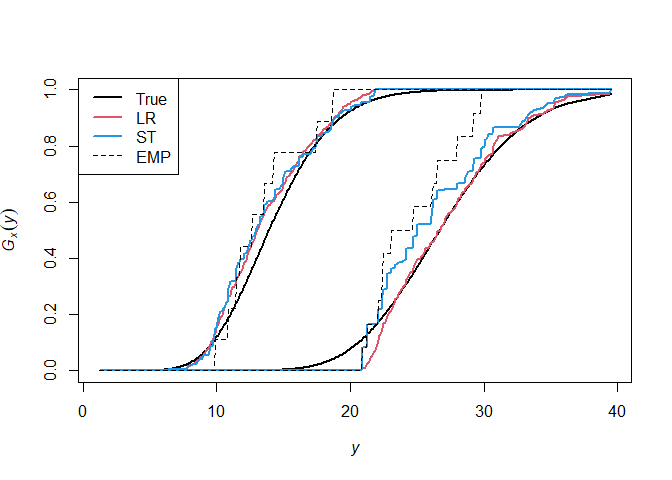
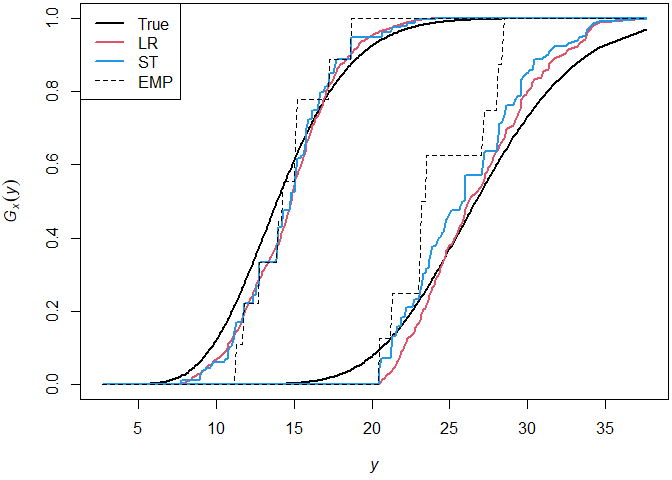
Updated plots

diff --git a/README.md b/README.md
@@ -69,7 +69,7 @@ $b: \mathfrak{X} \to (0,\infty)$.
 
 ``` r
 rm(list = ls())
-set.seed(1)
+set.seed(1234)
 a <- function(x) 2 + (x+1)^2
 b <- function(x) 1 - exp(-10*x)
 r.cond.dist <- function(x) rgamma(1, shape = a(x), scale = b(x))
@@ -110,6 +110,7 @@ We estimate the family of distributions using the function
 `dist_reg_R()` with default options.
 
 ``` r
+par(mar = c(4.2, 4.2, 0.2, 0.2))
 res <- dist_reg_R(data$X, data$Y)
 plotD(res$par, indices = FALSE)
 ```
@@ -185,7 +186,7 @@ y <- par$y
 
 beta.seq <- c(0.10, 0.25, 0.5, 0.75, 0.90); beta.n <- length(beta.seq)
 
-# Compute lower and upper quantile curves, and then a taut string
+# Compute lower and upper quantile curves, and then a taut string in between
 QLR <- matrix(0, nrow = l0, ncol = beta.n)
 for (s in seq_along(beta.seq)) {
   QL <- QU <- rep(0, l0)
@@ -199,14 +200,6 @@ for (s in seq_along(beta.seq)) {
     QLR[, s] <- taut.string(QL[, s], QU[, s], x)$Y
   }
 }
-
-plot(data[ii,], pch = 16, cex = 0.3, xaxt = "n", log = "y",
-     ylim = range(data$weight[ii]) * c(0.9, 1.1),
-     xlab = "Age [years]", ylab = "Weight [kg]")
-axis(1, at = 12 * 2:16, labels = 2:16)
-for (s in seq_along(beta.seq)) {
-  lines(x0, QLR[, s], lwd = 2.5)
-}
 ```
 
-<img src="man/figures/README-growth_data-1.png" width="80%" />
+<img src="man/figures/README-plot_growth_quantiles-1.png" width="80%" />
